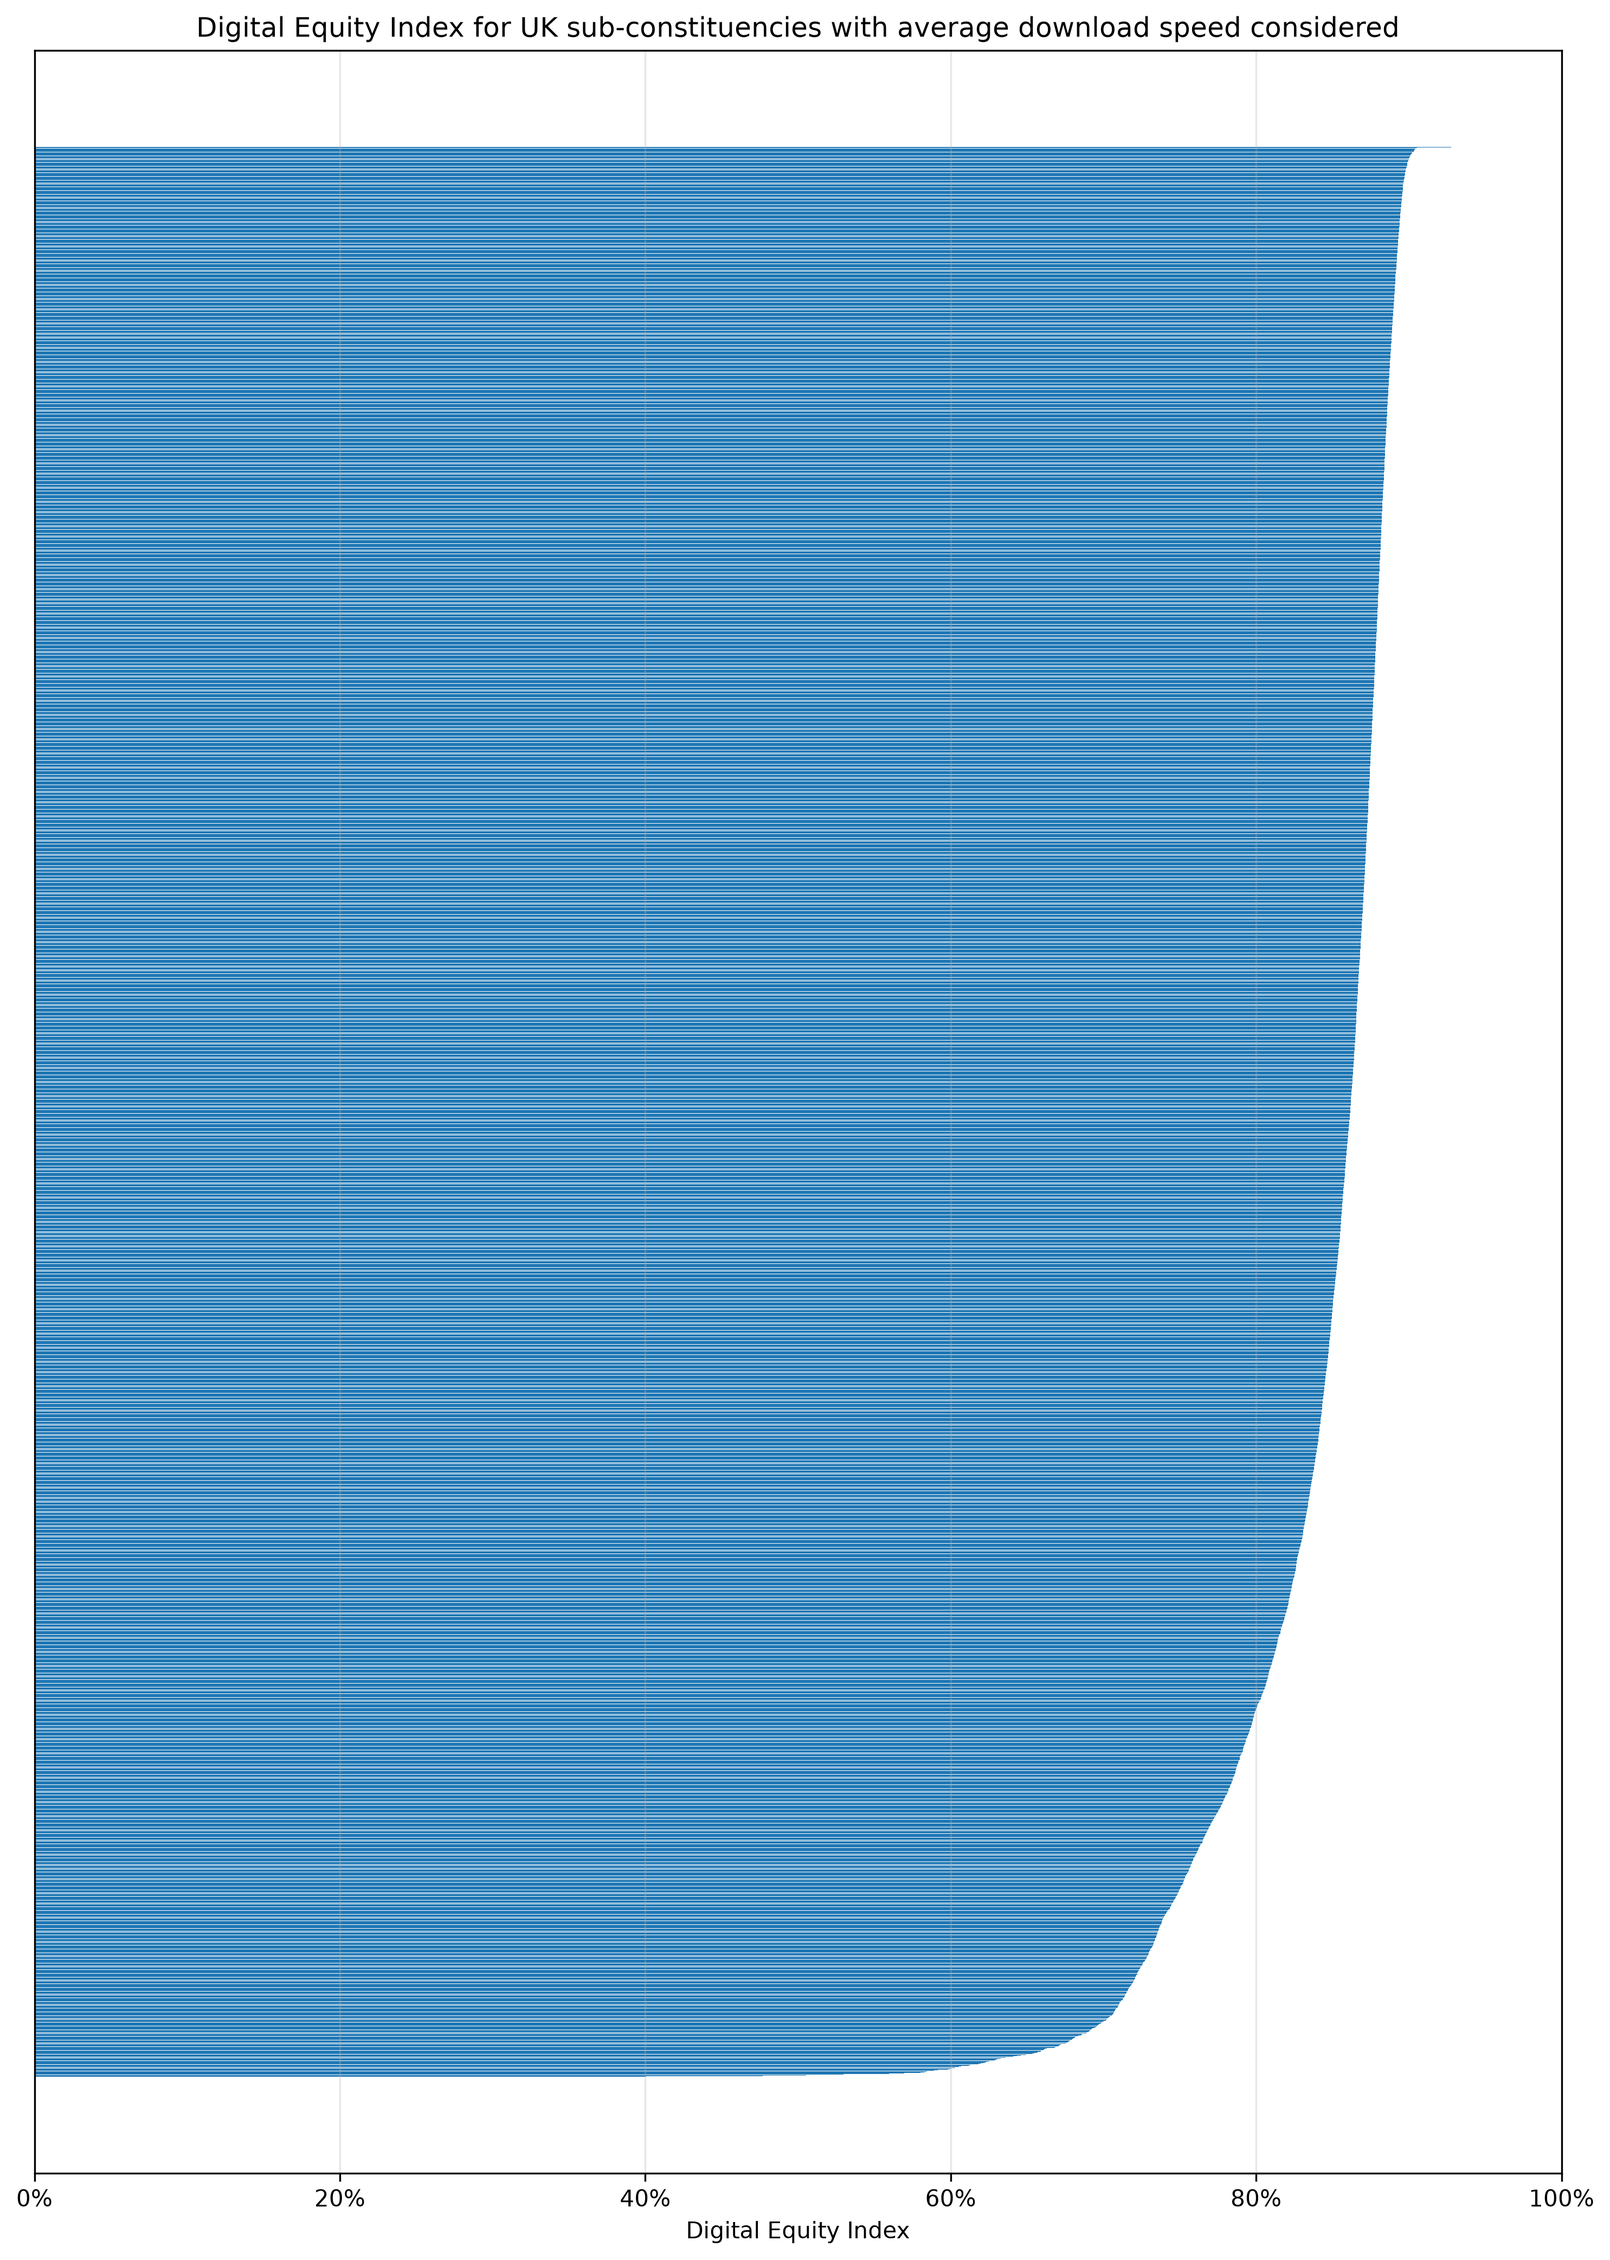
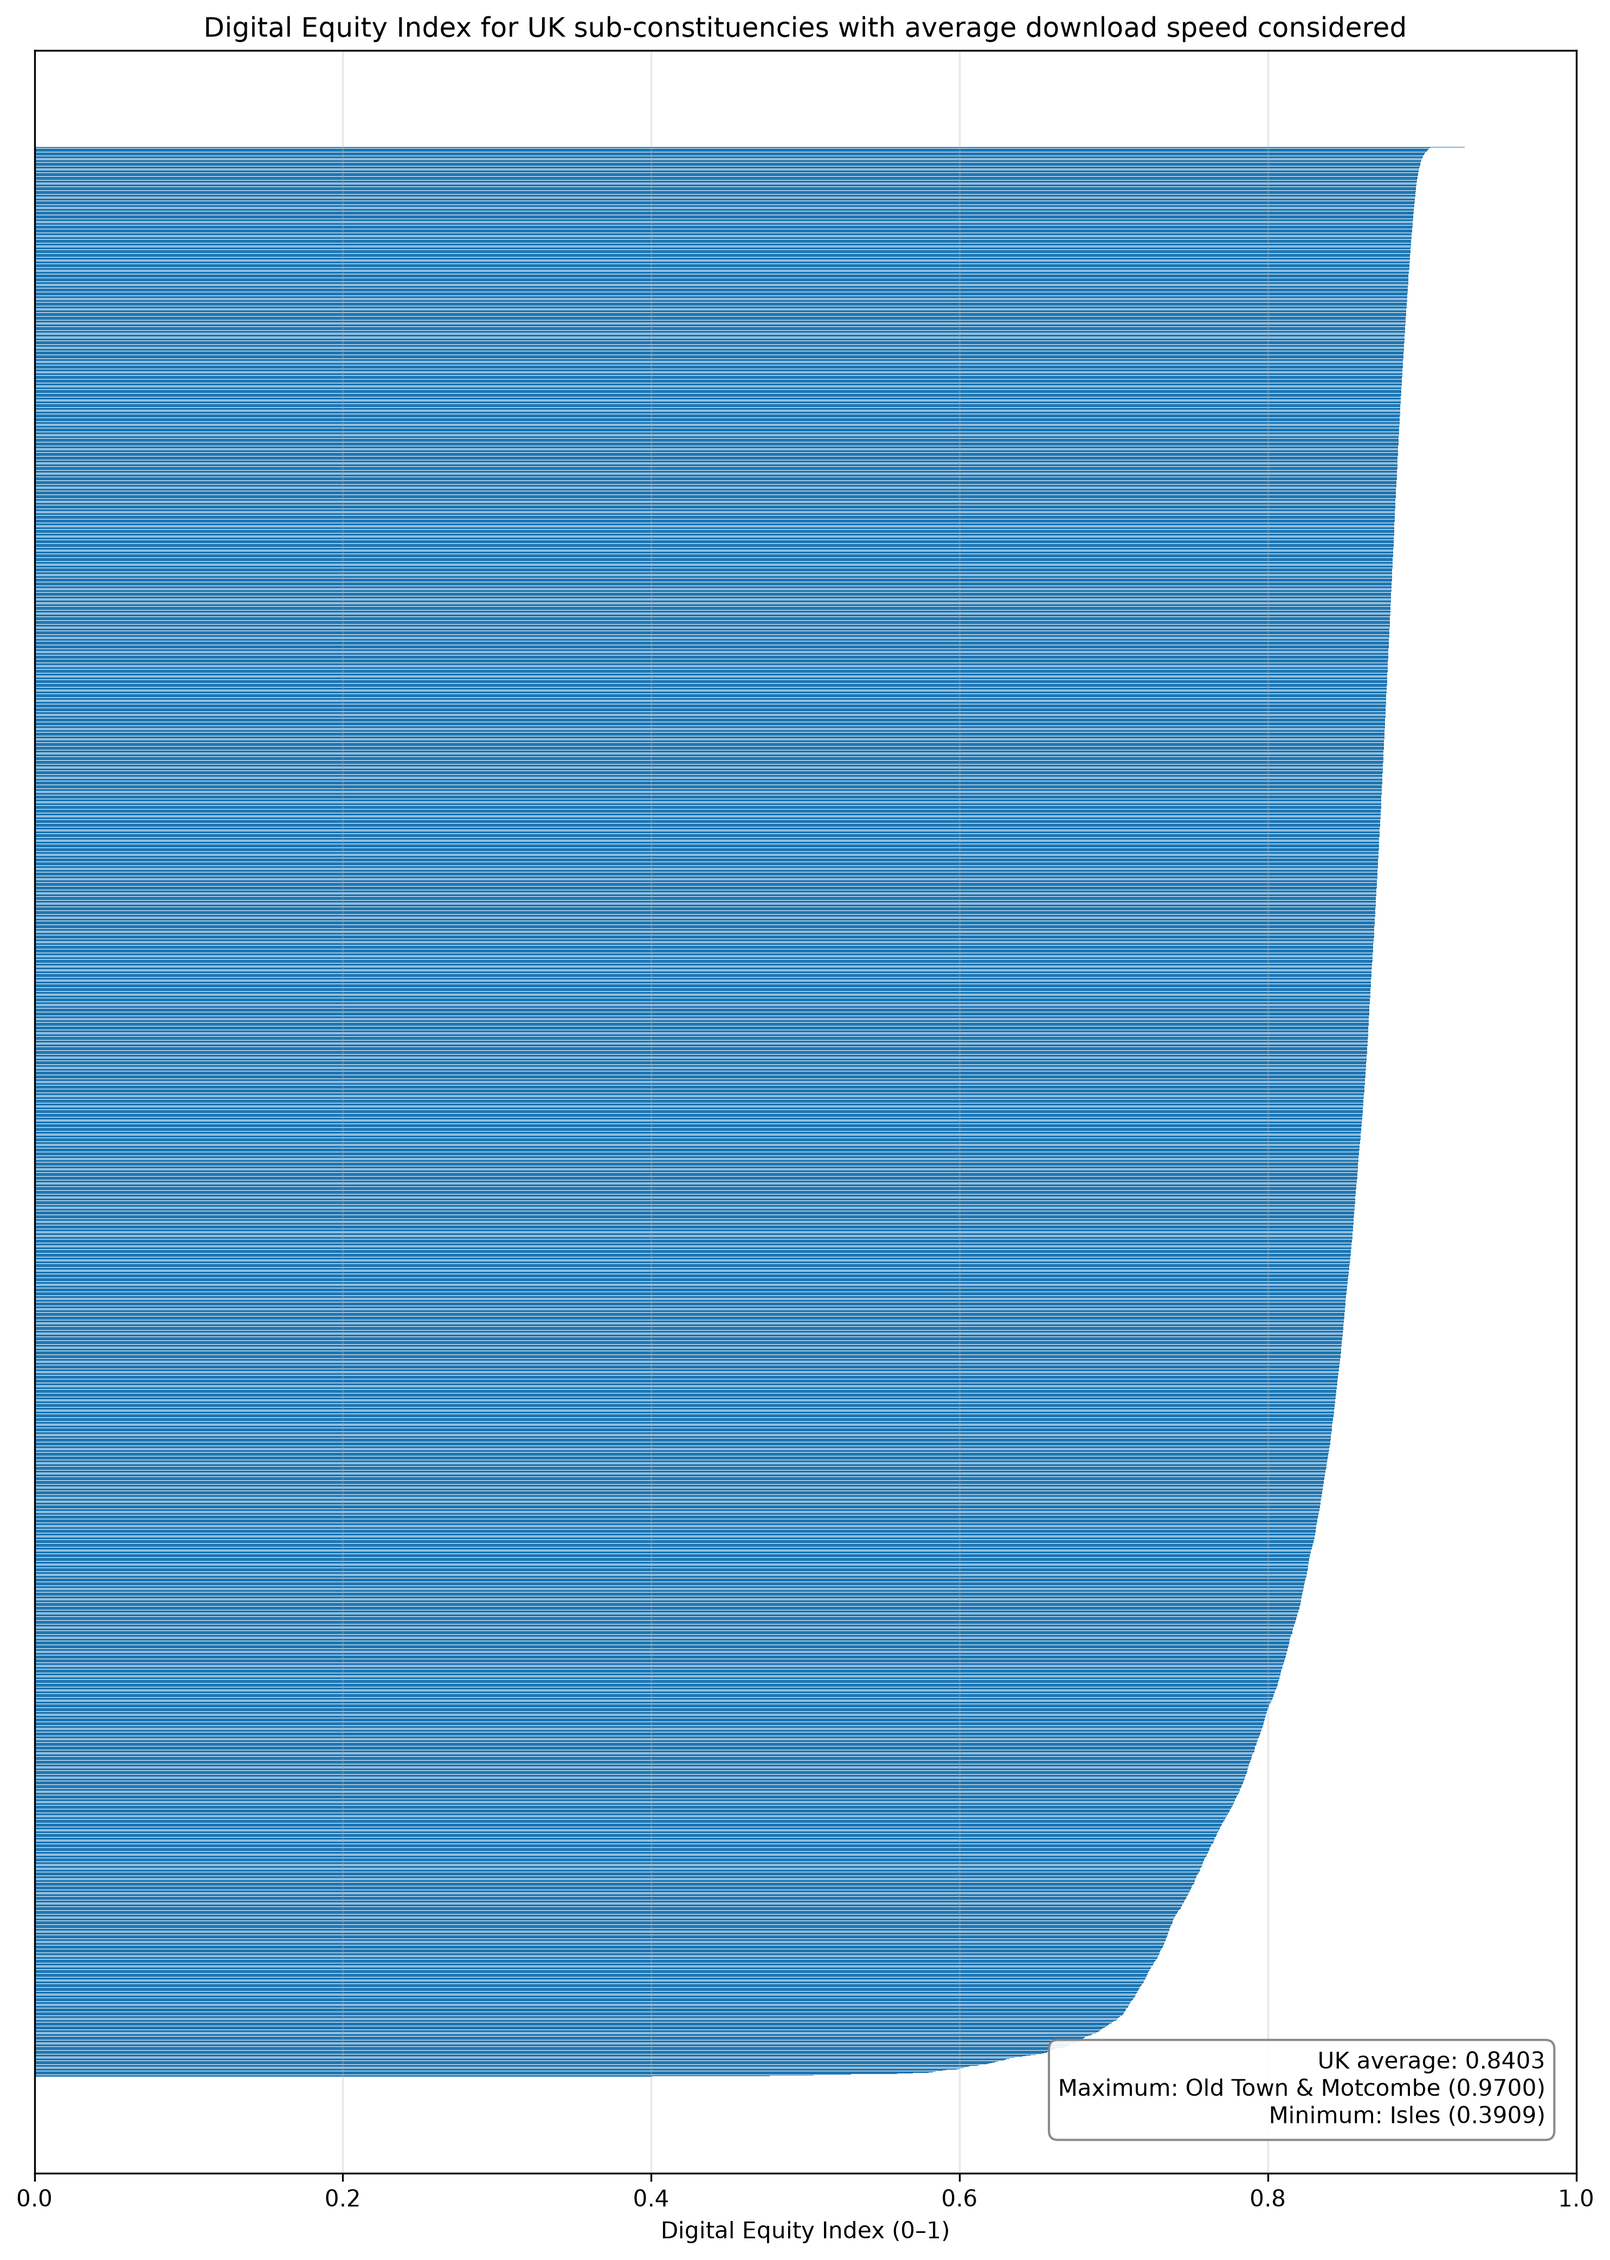
final plots obtained

diff --git a/miniproject/UK-sub-contituency-analysis/sub_constituency.py b/miniproject/UK-sub-contituency-analysis/sub_constituency.py
@@ -118,24 +118,61 @@ def write_workbook(path: Path, rows: list[list[object]]) -> None:
 
 
 def plot_index_distribution(index_rows: list[list[object]], title: str, output_path: Path) -> None:
-    values = [float(row[2]) for row in index_rows[1:] if row[2] is not None]
-    values.sort(reverse=True)
+    data = []
+    for row in index_rows[1:]:
+        if row[2] is None:
+            continue
+        area_name = str(row[1])
+        value = float(row[2])
+        data.append((area_name, value))
+
+    if not data:
+        raise ValueError("No index values available for plotting.")
+
+    data.sort(key=lambda x: x[1], reverse=True)
+
+    values = [v for _, v in data]
+
+    uk_average = sum(values) / len(values)
+    max_name, max_value = data[0]
+    min_name, min_value = data[-1]
 
     fig, ax = plt.subplots(figsize=(10, 14))
+
     ax.barh(range(len(values)), values)
     ax.invert_yaxis()
 
     ax.set_xlim(0, 1)
-    ax.xaxis.set_major_formatter(PercentFormatter(1.0))
-    ax.set_xlabel("Digital Equity Index")
+    ax.set_xlabel("Digital Equity Index (0–1)")
     ax.set_yticks([])
     ax.set_title(title)
     ax.grid(axis="x", alpha=0.3)
 
+    note_text = (
+        f"UK average: {uk_average:.4f}\n"
+        f"Maximum: {max_name} ({max_value:.4f})\n"
+        f"Minimum: {min_name} ({min_value:.4f})"
+    )
+
+    ax.text(
+        0.98,
+        0.02,
+        note_text,
+        transform=ax.transAxes,
+        ha="right",
+        va="bottom",
+        fontsize=10,
+        bbox=dict(
+            boxstyle="round,pad=0.4",
+            facecolor="white",
+            edgecolor="gray",
+            alpha=0.9,
+        ),
+    )
+
     fig.tight_layout()
     fig.savefig(output_path, dpi=300, bbox_inches="tight")
     plt.close(fig)
-
 
 def process_mode(mode_name: str, metrics: list[str], weights_path: Path) -> None:
     weights = load_weights(weights_path, metrics)
